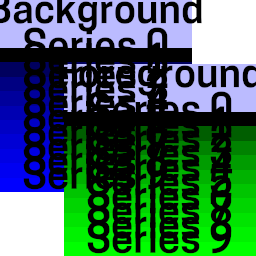
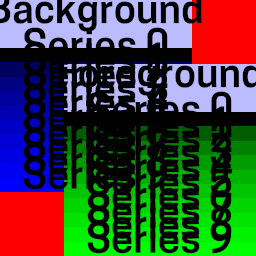
Test rendering lots of text

Changed region(s): [[0.75, 0.0, 1.0, 0.25], [0.0, 0.75, 0.25, 1.0]]

diff --git a/src/graphics.rs b/src/graphics.rs
@@ -815,6 +815,22 @@ mod tests {
         );
     }
 
+    #[test]
+    fn test_fn_grid_lots() {
+        let viewport = Box2DData::new(Point2DData::new(-1.0, -1.0), Point2DData::new(1.0, 1.0));
+        graphics::capture(
+            vec![FnGrid {
+                viewport: Some(viewport),
+                cell_size: 0.5,
+                color_fn: |point: Point2DData| [0.0, point.x, point.y, 1.0],
+                label_fn: |point: Point2DData| String::from(","),
+            }],
+            viewport,
+            PathBuf::from("output/fn_grid_lots.png"),
+            SIZE,
+        );
+    }
+
     /// This grid is designed to be too be large to naively render on my graphics card
     #[test]
     #[ignore]
@@ -835,30 +851,36 @@ mod tests {
 
     #[test]
     fn test_layers() {
+        let viewport = Box2DData::new(Point2DData::new(-1.0, -1.0), Point2DData::new(1.0, 1.0));
+        let render: Vec<Box<dyn Render>> = vec![
+            Box::new(StyledGeom {
+                geom: Geom::from_box2d(&viewport),
+                color: [1.0, 0.0, 0.0, 1.0],
+            }),
+            Box::new(Legend {
+                title: String::from("Background"),
+                series: (0..10)
+                    .map(|i| Series {
+                        title: format!("Series {}", i),
+                        color: [0.0, 0.0, i as f32 / 9.0, 1.0],
+                    })
+                    .collect(),
+                area: Box2DData::new(Point2DData::new(-1.0, -1.0), Point2DData::new(0.5, 0.5)),
+            }),
+            Box::new(Legend {
+                title: String::from("Foreground"),
+                series: (0..10)
+                    .map(|i| Series {
+                        title: format!("Series {}", i),
+                        color: [0.0, i as f32 / 9.0, 0.0, 1.0],
+                    })
+                    .collect(),
+                area: Box2DData::new(Point2DData::new(-0.5, -0.5), Point2DData::new(1.0, 1.0)),
+            }),
+        ];
         graphics::capture(
-            vec![
-                Legend {
-                    title: String::from("Background"),
-                    series: (0..10)
-                        .map(|i| Series {
-                            title: format!("Series {}", i),
-                            color: [0.0, 0.0, i as f32 / 9.0, 1.0],
-                        })
-                        .collect(),
-                    area: Box2DData::new(Point2DData::new(-1.0, -1.0), Point2DData::new(0.5, 0.5)),
-                },
-                Legend {
-                    title: String::from("Foreground"),
-                    series: (0..10)
-                        .map(|i| Series {
-                            title: format!("Series {}", i),
-                            color: [0.0, i as f32 / 9.0, 0.0, 1.0],
-                        })
-                        .collect(),
-                    area: Box2DData::new(Point2DData::new(-0.5, -0.5), Point2DData::new(1.0, 1.0)),
-                },
-            ],
-            Box2DData::new(Point2DData::new(-1.0, -1.0), Point2DData::new(1.0, 1.0)),
+            render,
+            viewport,
             PathBuf::from("output/layers.png"),
             SIZE,
         );

diff --git a/src/main.rs b/src/main.rs
@@ -132,8 +132,8 @@ fn main() {
     info!("Entering script...");
 
     let viewport = Box2DData::new(
-        Point2DData::new(-3000.0, -3000.0),
-        Point2DData::new(3000.0, 3000.0),
+        Point2DData::new(1500.0, -3000.0),
+        Point2DData::new(3000.0, -1500.0),
     );
 
     // Somerville city hall (93 Highland)
